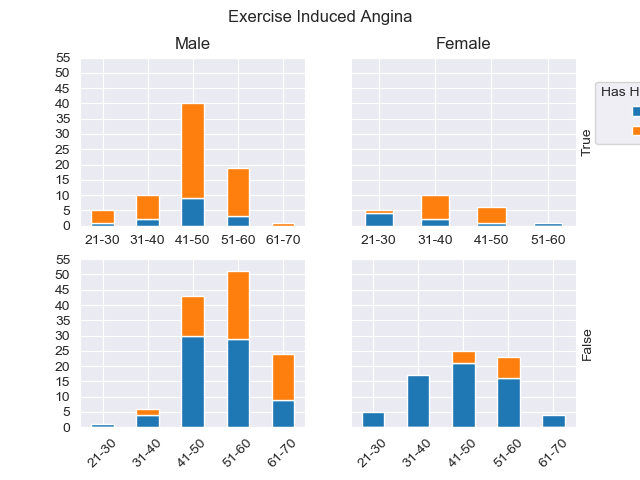
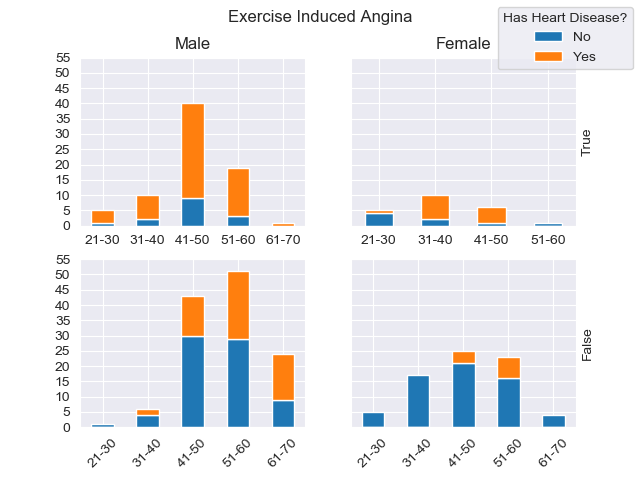
added graph 11 and other graphs

Changed region(s): [[0.7812, 0.0, 1.0, 0.1562], [0.9375, 0.1562, 1.0, 0.2812]]

diff --git a/Project/Submission/templates/other.html b/Project/Submission/templates/other.html
@@ -26,7 +26,9 @@
           <a class="dropdown-item" href="/extras12">Major Vessels by Flourosopy</a>
           <a class="dropdown-item" href="/extras13">Thalassemia</a>
           <a class="dropdown-item" href="/extras15">3D - Max Heart Rate vs Serum Chol</a>
+          <a class="dropdown-item" href="/extras16">2D - Max Heart Rate vs Serum Chol</a>
           <a class="dropdown-item" href="/extras17">3D - Max Heart Rate vs Oldpeak</a>
+          <a class="dropdown-item" href="/extras18">2D - Max Heart Rate vs Oldpeak</a>
           
         </div>
       </li>

diff --git a/Project/Submission/graph_labelled.py b/Project/Submission/graph_labelled.py
@@ -479,14 +479,7 @@ class graph:
         ax4.set_xticklabels(["21-30", "31-40", "41-50", "51-60", "61-70", "71-80", "> 80"])
         ax4.set_ylabel('False')
         ax4.yaxis.set_label_position("right")
-        #fig.text(x=0.01, y=0.5, verticalalignment='center',s='Frequency', rotation=90, size=11)
-        #fig.text(x=0.45, y=0.05, horizontalalignment='center', s='Age Group', size=11)
 
-        # Layout
-        #fig.tight_layout()
-        #fig.subplots_adjust(top=0.85, left=0.1, bottom=0.2, right=0.8)
-
-        # Save image
         plt.savefig(IMG_PATH + 'graph9_labelled.png')
         plt.close()
 
@@ -519,7 +512,105 @@ class graph:
 
 
     # Slope
-    #def create_plot_11(self):
+    def create_plot_11_labelled(self,db):
+        # Get data
+        conn = sqlite3.connect(db.database_name)
+        df = pd.read_sql_query('SELECT Age, Sex, Slope, Target FROM Heart;', conn)
+        # Divide data into male and female
+
+        sns.set_style('darkgrid')
+
+        male_df = df.query('Sex == 1')
+        male_df = male_df.drop('Sex', axis=1)
+
+        female_df = df.query('Sex == 0')
+        female_df = female_df.drop('Sex', axis=1)
+
+        male_df_Slope1 = male_df.query('Slope == 1')
+        male_df_Slope2 = male_df.query('Slope == 2')
+        male_df_Slope3 = male_df.query('Slope == 3')
+
+        female_df_Slope1 = female_df.query('Slope == 1')
+        female_df_Slope2 = female_df.query('Slope == 2')
+        female_df_Slope3 = female_df.query('Slope == 3')
+
+        
+
+        # Aggregate the number of true/false, grouped by age bracket
+
+        male_df_Slope1['count'] = 1
+        male_df_Slope1[''] = pd.cut(male_df_Slope1.Age, [20,30,40,50,60,70,80])
+        male_df_Slope1 = male_df_Slope1.pivot_table('count', index='', columns='Target', aggfunc='sum')
+
+        male_df_Slope2['count'] = 1
+        male_df_Slope2[''] = pd.cut(male_df_Slope2.Age, [20,30,40,50,60,70,80])
+        male_df_Slope2 = male_df_Slope2.pivot_table('count', index='', columns='Target', aggfunc='sum')
+
+        male_df_Slope3['count'] = 1
+        male_df_Slope3[''] = pd.cut(male_df_Slope3.Age, [20,30,40,50,60,70,80])
+        male_df_Slope3 = male_df_Slope3.pivot_table('count', index='', columns='Target', aggfunc='sum')
+
+        female_df_Slope1['count'] = 1
+        female_df_Slope1[''] = pd.cut(female_df_Slope1.Age, [20,30,40,50,60,70,80])
+        female_df_Slope1 = female_df_Slope1.pivot_table('count', index='', columns='Target', aggfunc='sum')
+
+        female_df_Slope2['count'] = 1
+        female_df_Slope2[''] = pd.cut(female_df_Slope2.Age, [20,30,40,50,60,70,80])
+        female_df_Slope2 = female_df_Slope2.pivot_table('count', index='', columns='Target', aggfunc='sum')
+
+        female_df_Slope3['count'] = 1
+        female_df_Slope3[''] = pd.cut(female_df_Slope3.Age, [20,30,40,50,60,70,80])
+        female_df_Slope3 = female_df_Slope3.pivot_table('count', index='', columns='Target', aggfunc='sum')
+
+        # Generate the subplots
+        fig, axes = plt.subplots(nrows=3, ncols=2)
+        ax1 = male_df_Slope1.plot.bar(stacked=True, ax=axes[0,0], rot=0, legend=False)
+        ax2 = female_df_Slope1.plot.bar(stacked=True, ax=axes[0,1], rot=0, legend=False)
+        ax3 = male_df_Slope2.plot.bar(stacked=True, ax=axes[1,0], rot=0, legend=False)
+        ax4 = female_df_Slope2.plot.bar(stacked=True, ax=axes[1,1], rot=0, legend=False)
+        ax5 = male_df_Slope3.plot.bar(stacked=True, ax=axes[2,0], rot=0, legend=False)
+        ax6 = female_df_Slope3.plot.bar(stacked=True, ax=axes[2,1], rot=0, legend=False)
+
+        ## Format Plot
+
+        # Titles
+        fig.suptitle('Slope')
+        ax1.set_title('Male')
+        ax2.set_title('Female')
+        
+
+        # Legend
+        fig.legend(title='Has Heart Disease?',labels =['No', 'Yes'])#loc = (0.93, 0.7) )#loc = (0.83, 0.7))
+
+        # Axes labels
+        ax1.set_yticks(range(0, 51, 10))
+        ax2.set_yticks(range(0, 51, 10))
+        ax2.set_yticklabels([])
+        ax2.set_ylabel('Slope = 1')
+        ax2.yaxis.set_label_position("right")
+
+        ax1.set_xticklabels(["21-30", "31-40", "41-50", "51-60", "61-70", "71-80", "> 80"])
+        ax2.set_xticklabels(["21-30", "31-40", "41-50", "51-60", "61-70", "71-80", "> 80"])
+        ax3.set_yticks(range(0, 51, 10))
+        ax4.set_yticks(range(0, 51, 10))
+        ax4.set_yticklabels([])
+        ax3.set_xticklabels(["21-30", "31-40", "41-50", "51-60", "61-70", "71-80", "> 80"])
+        ax4.set_xticklabels(["21-30", "31-40", "41-50", "51-60", "61-70", "71-80", "> 80"])
+        ax4.set_ylabel('Slope = 2')
+        ax4.yaxis.set_label_position("right")
+
+        ax5.set_yticks(range(0, 11, 2))
+        ax6.set_yticks(range(0, 11, 2))
+        ax6.set_yticklabels([])
+        ax5.set_xticklabels(["21-30", "31-40", "41-50", "51-60", "61-70", "71-80", "> 80"])
+        ax6.set_xticklabels(["21-30", "31-40", "41-50", "51-60", "61-70", "71-80", "> 80"])
+        ax6.set_ylabel('Slope = 3')
+        ax6.yaxis.set_label_position("right")
+
+
+        plt.savefig(IMG_PATH + 'graph11_labelled.png')
+        plt.close()
+
 
         
 
@@ -836,7 +927,7 @@ class graph:
 
     def create_plot_16_labelled(self, db):
         conn = sqlite3.connect(db.database_name)
-        df = pd.read_sql_query('SELECT Age, Sex, Chest_Pain_Type, Target FROM Heart;', conn)
+        df = pd.read_sql_query('SELECT Age, Sex,Max_Heart_Rate, Serum_Chol, Target FROM Heart;', conn)
         sns.set_style('darkgrid')
         df['Target'].values[df['Target'].values != 0] = 1
         df['Heart Disease?'] = df['Target'].map({1:'Yes', 0:'No'})
@@ -910,7 +1001,7 @@ class graph:
 
     def create_plot_18_labelled(self, db):
         conn = sqlite3.connect(db.database_name)
-        df = pd.read_sql_query('SELECT Age, Sex, Chest_Pain_Type, Target FROM Heart;', conn)
+        df = pd.read_sql_query('SELECT Age, Sex,Max_Heart_Rate, Oldpeak, Target FROM Heart;', conn)
 
         sns.set_style('darkgrid')
         df['Target'].values[df['Target'].values != 0] = 1
@@ -925,5 +1016,5 @@ class graph:
         g.axes[0,0].set_title("Male")
         g.axes[0,1].set_title("Female")
             
-        plt.savefig(IMG_PATH + 'graph_18_labelled.png')
+        plt.savefig(IMG_PATH + 'graph18_labelled.png')
     

diff --git a/Project/Submission/server_helper.py b/Project/Submission/server_helper.py
@@ -8,7 +8,9 @@ graph_dict = {1:'Age',2:'Sex',3:'Chest Pain Type',4:'Resting Blood Pressure',\
     5:'Serum Cholesterol',6:'Fasting Blood Sugar',7:'Resting ECG Results',\
         8:'Maximum Heart Rate', 9:'Exercise Induced Angina', 10:'Oldpeak',\
             11:'Peak Exercise ST Slope',12:'Major Vessels by Flouroscopy',\
-                13:'Thalassemia',14:'target', 15:'3D - Max Heart Rate vs Serum Cholesterol', 17:'3D - Max Heart Rate vs Oldpeak'}
+                13:'Thalassemia',14:'target', 15:'3D - Max Heart Rate vs Serum Cholesterol',\
+                    16:'2D - Max Heart Rate vs Serum Cholesterol', 17:'3D - Max Heart Rate vs Oldpeak',\
+                        18:'2D - Max Heart Rate vs Oldpeak'}
 
 def validate_result(result):
     ## check the values being used here

diff --git a/Project/Submission/create_graphs.py b/Project/Submission/create_graphs.py
@@ -85,8 +85,8 @@ def create_graphs(db):
     g10_lab.create_plot_10_labelled(db)
 
     # Slope
-    #g11_lab = gl.graph(11,db)
-    #g11_lab.create_plot_11(db)
+    g11_lab = gl.graph(11,db)
+    g11_lab.create_plot_11_labelled(db)
 
     # Number Vessels Coloured by Flouroscopy
     g12_lab = gl.graph(12,db)
@@ -99,8 +99,15 @@ def create_graphs(db):
     g15_lab = gl.graph(15,db)
     g15_lab.create_plot_15_labelled(db)
 
+    g16_lab = gl.graph(16,db)
+    g16_lab.create_plot_16_labelled(db)
+
     g17_lab = gl.graph(17,db)
     g17_lab.create_plot_17_labelled(db)
+
+    g18_lab = gl.graph(18,db)
+    g18_lab.create_plot_18_labelled(db)
+
 
 
 

diff --git a/Project/Submission/server.py b/Project/Submission/server.py
@@ -71,7 +71,7 @@ def other(number=None):
         graph_name = helper.graph_dict[number]
     except (ValueError, KeyError):
         abort(404)
-    if not 3 <= number <= 17:
+    if not 3 <= number <= 18:
         abort(404)
     else:
         # Note: ensure the image is saved in /static/images, simply set a function to return the name of the image
@@ -83,5 +83,5 @@ def other(number=None):
             return render_template("extras.html", graph_name = graph_name, image_name = my_image)
 
 if __name__ == "__main__":
-    app.run(debug=True)
+    app.run(debug=True, host='0.0.0.0')
 
